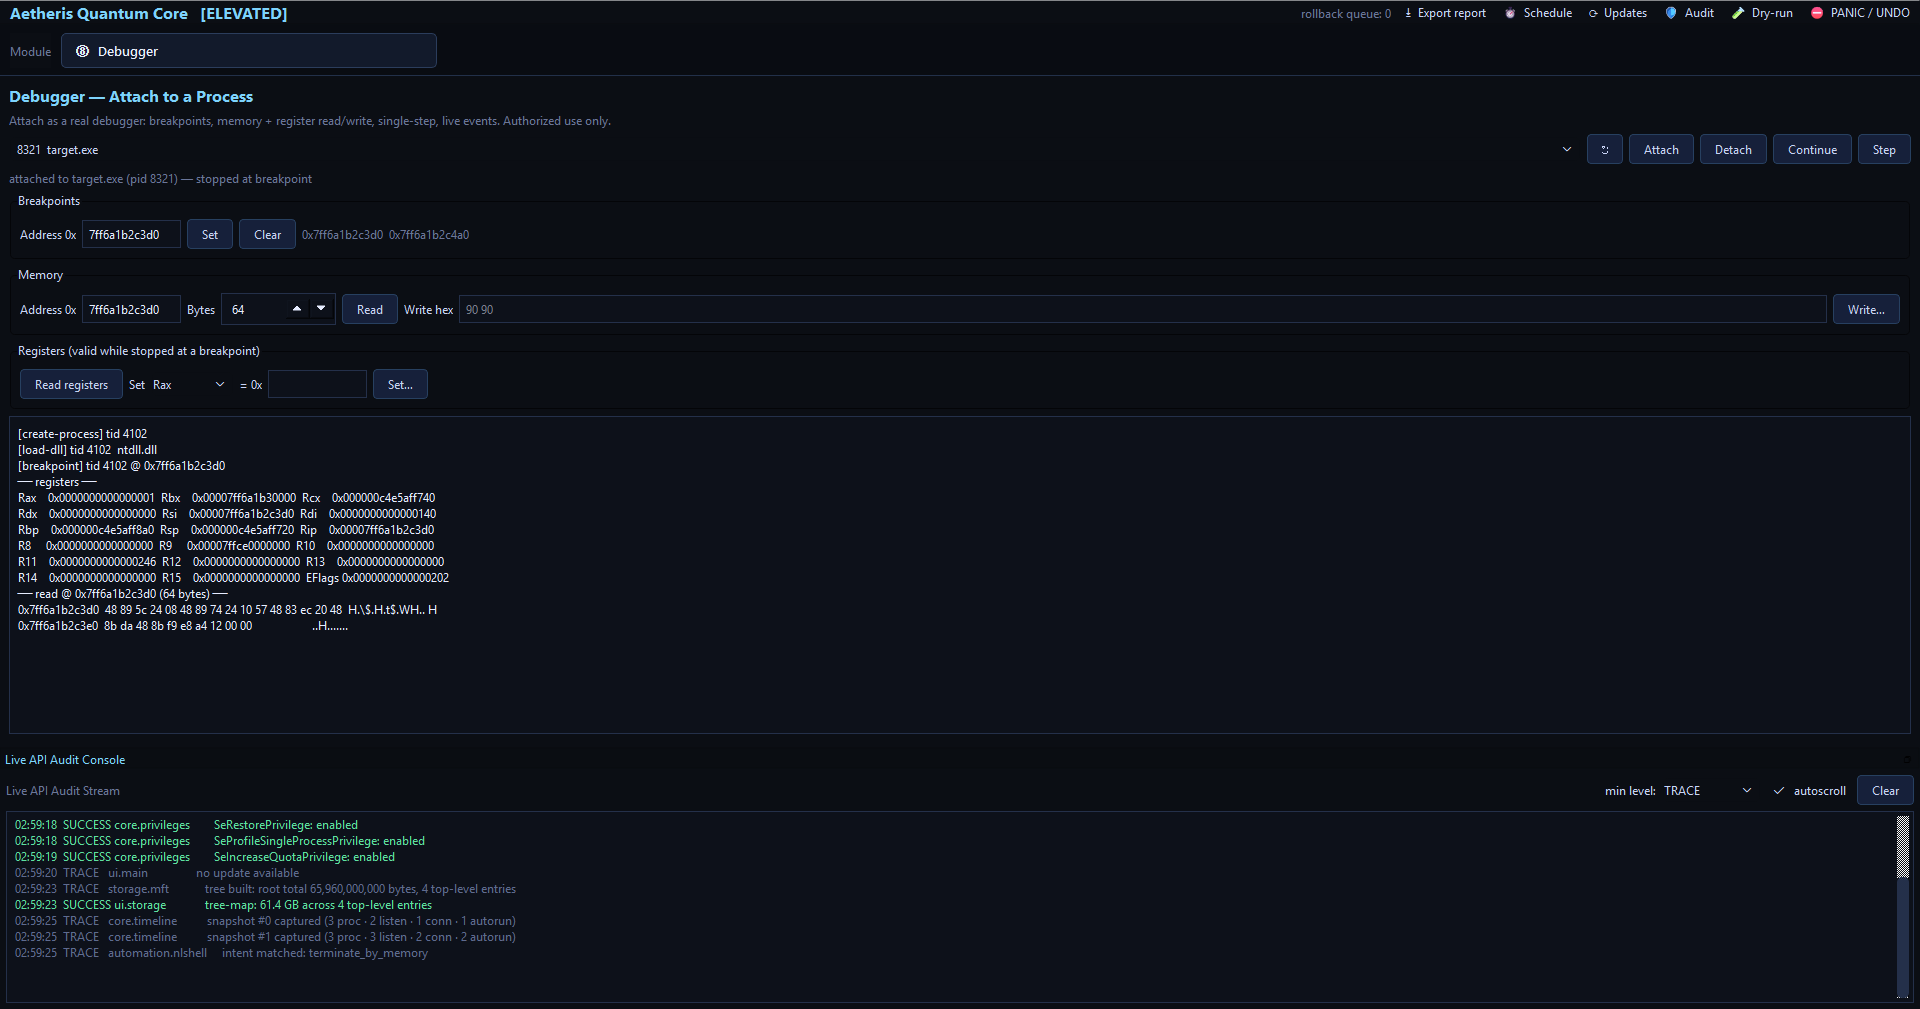
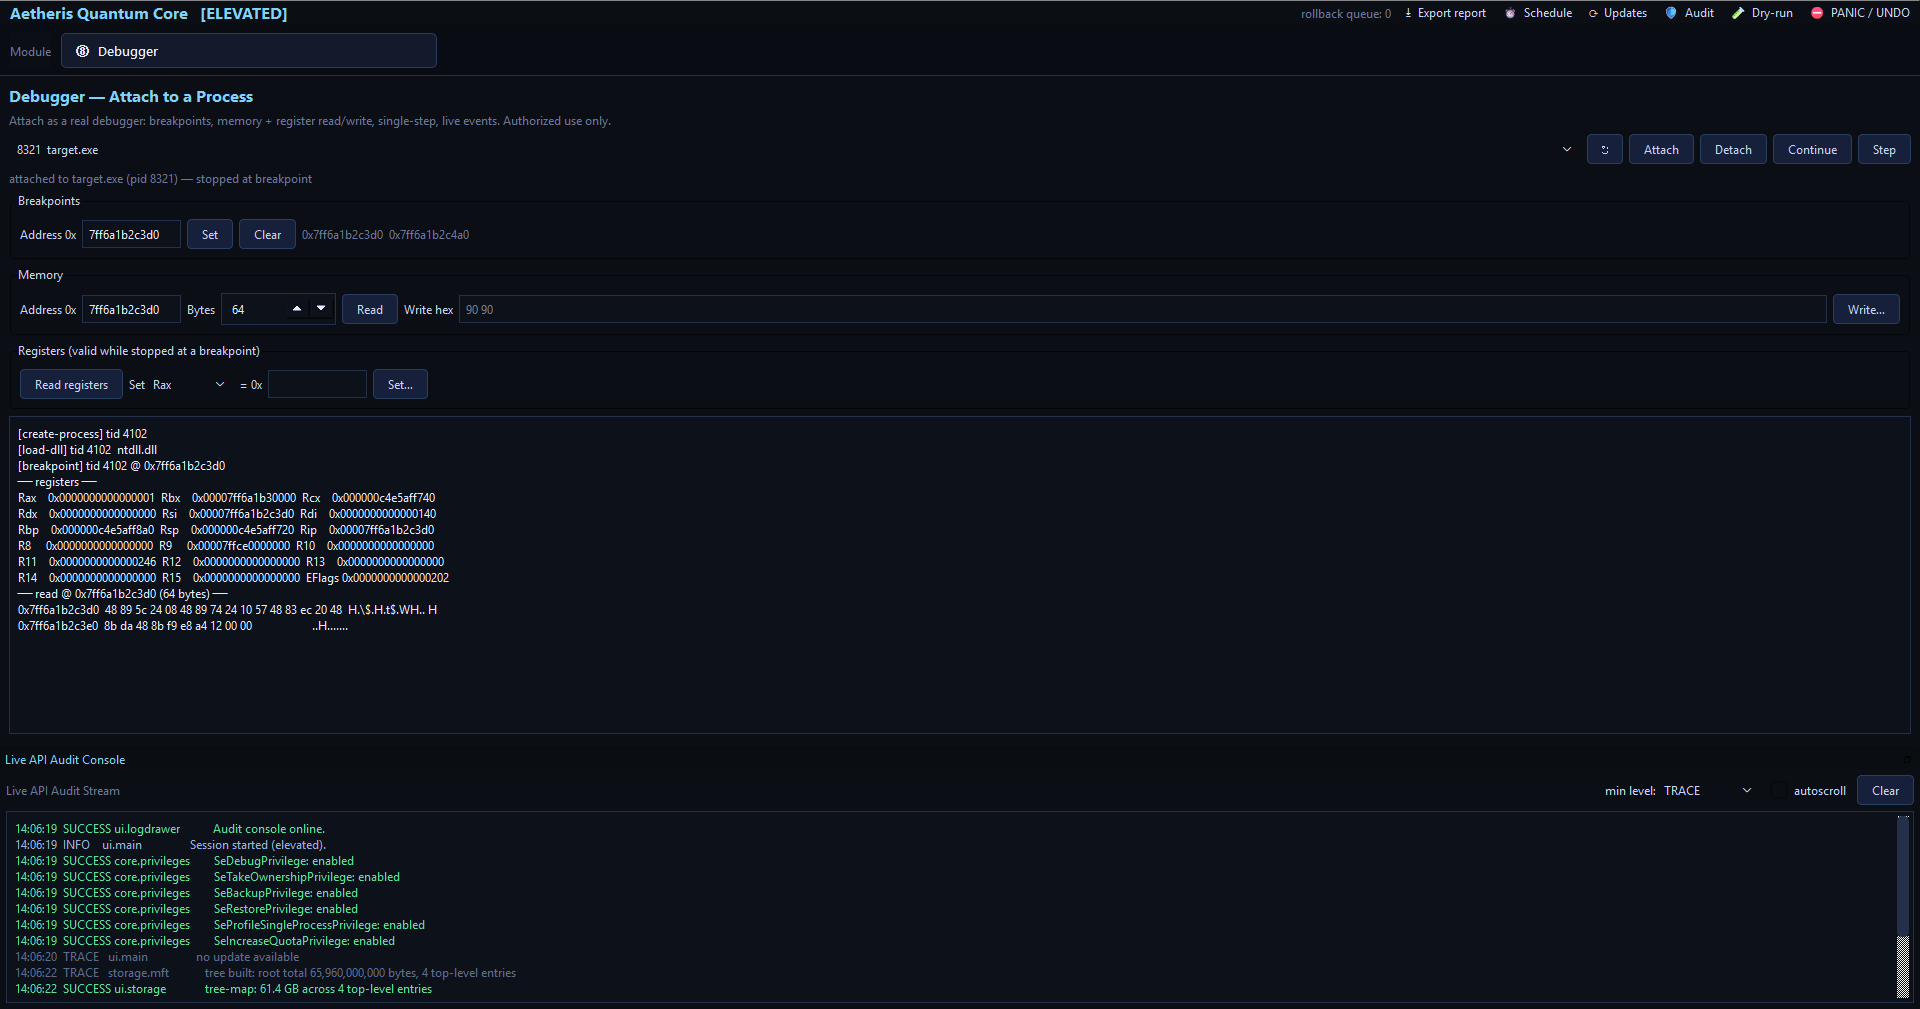
docs: correct the CI signing secrets, and regenerate screenshots
The signing documentation was wrong in a way that produced silent failure.
docs/SIGNING.md told you to set SIGN_PFX_BASE64 and SIGN_PASSWORD; release.yml
has never read either. It uses Azure Trusted Signing and needs six entirely
different secrets:

  AZURE_TENANT_ID  AZURE_CLIENT_ID  AZURE_CLIENT_SECRET
  TRUSTED_SIGNING_ENDPOINT  TRUSTED_SIGNING_ACCOUNT  TRUSTED_SIGNING_PROFILE

Following the old page would set the wrong secrets and still publish unsigned
binaries, with a green release and no indication why — which is what happened
to v0.3.0. Corrected, with the required service-principal role, and a note to
check the `Sign the app exe` step's status rather than assume.

The README now states plainly that published releases are unsigned and what
SmartScreen will show. For a security tool that default is worth naming: it
trains users to click past exactly the warning that protects them.

Screenshots regenerated with docs/make_screenshots.py under PySide6 — all
twelve tabs plus the walkthrough GIF. They double as evidence the migration
renders correctly: the theme, the objectName-driven QSS styling, the tables and
the colour-coded rows are all intact.

Verified alongside: a clean-venv PyInstaller build loads pyside6.abi3.dll,
Qt6Core.dll and aetheris_win.dll in an isolated exe with nothing beside it, and
its CLI produces 170 socket rows.

Changed region(s): [[0.0, 0.7988, 0.2812, 0.9832], [0.9688, 0.9217, 1.0, 0.9832], [0.9688, 0.7988, 1.0, 0.8603]]

diff --git a/docs/SIGNING.md b/docs/SIGNING.md
@@ -40,16 +40,32 @@ with the same `signtool sign` command after compiling it.
 
 ## Sign in CI
 
-`.github/workflows/release.yml` signs both artifacts on a tagged release when two
-repository secrets are set (Settings → Secrets and variables → Actions):
+`.github/workflows/release.yml` signs both artifacts on a tagged release using
+**Azure Trusted Signing**, not a `.pfx`. All five secrets must be set (Settings
+→ Secrets and variables → Actions); the signing steps are skipped when
+`AZURE_CLIENT_ID` is empty:
 
 | Secret | Value |
 |---|---|
-| `SIGN_PFX_BASE64` | your `.pfx`, base64-encoded (`[Convert]::ToBase64String([IO.File]::ReadAllBytes('cert.pfx'))`) |
-| `SIGN_PASSWORD`   | the `.pfx` password |
+| `AZURE_TENANT_ID` | the Entra tenant holding the signing identity |
+| `AZURE_CLIENT_ID` | app registration (service principal) client ID |
+| `AZURE_CLIENT_SECRET` | that app registration's client secret |
+| `TRUSTED_SIGNING_ENDPOINT` | e.g. `https://eus.codesigning.azure.net` |
+| `TRUSTED_SIGNING_ACCOUNT` | Trusted Signing account name |
+| `TRUSTED_SIGNING_PROFILE` | certificate profile name within that account |
 
-If `SIGN_PFX_BASE64` is empty the signing step is skipped and unsigned binaries
-are published — so the pipeline works before you have a certificate.
+The service principal needs the **Trusted Signing Certificate Profile Signer**
+role on the account.
+
+> Earlier revisions of this page described `SIGN_PFX_BASE64` / `SIGN_PASSWORD`.
+> The workflow has never read those. Setting them produces a green release with
+> silently unsigned binaries, which is the worst of both outcomes — check the
+> `Sign the app exe` step's status in the release run rather than assuming.
+
+**Releases through v0.3.0 are unsigned**, because these secrets are not set on
+the repository. Windows SmartScreen will warn on first run. For a security tool
+that is a poor default: users learn to click through exactly the warning that
+protects them.
 
 ## Verify a signature
 

diff --git a/README.md b/README.md
@@ -268,8 +268,16 @@ The suite does **not** include a credential-extraction path against
   `%APPDATA%\AetherisQuantumCore\settings.json` (atomic writes, defaults on any
   corrupt/missing file).
 - **Code signing** — the exe/installer are Authenticode-signable; the build
-  script and release workflow sign when a certificate is configured and produce
-  working unsigned binaries otherwise. See [`docs/SIGNING.md`](docs/SIGNING.md).
+  script and release workflow sign via Azure Trusted Signing when the secrets
+  are configured, and produce working unsigned binaries otherwise. See
+  [`docs/SIGNING.md`](docs/SIGNING.md).
+
+  > **Published releases are currently unsigned.** The Trusted Signing secrets
+  > are not set on this repository, so SmartScreen shows "Windows protected
+  > your PC" on first run of a downloaded exe. Verify what you downloaded
+  > against the `sha256` in the release's `version.json` before running it —
+  > and be aware that training users to click past that warning is exactly the
+  > habit a tool like this should not encourage.
 
 ## Plugins & headless CLI
 
